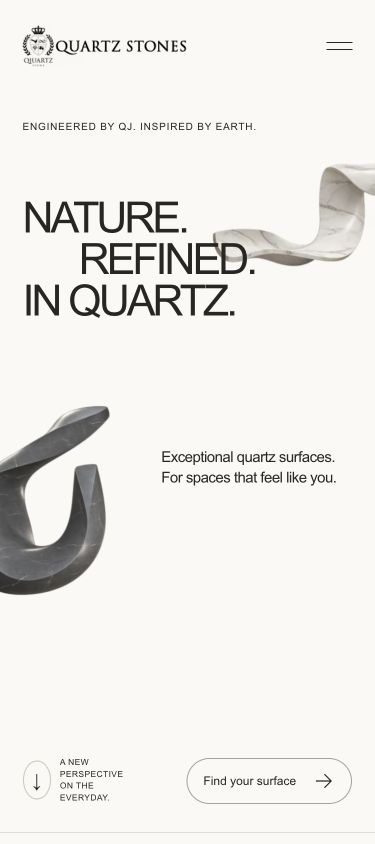
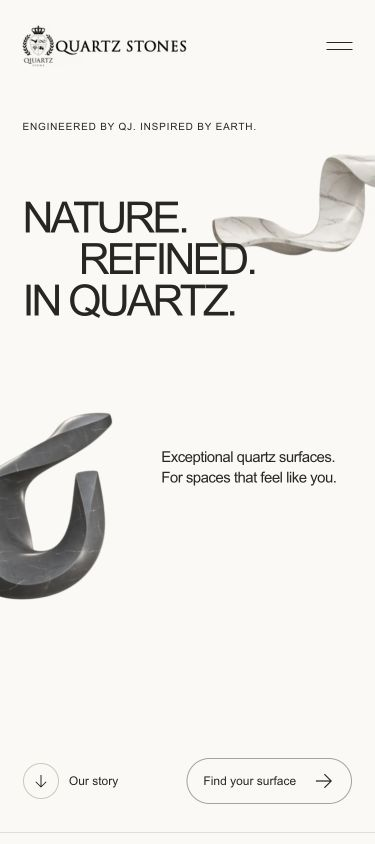
Simplify mobile hero scroll cue

diff --git a/src/app/page.tsx b/src/app/page.tsx
@@ -16,7 +16,15 @@ export default function Home() {
         <h1 id="hero-title" className="hero-title"><span>NATURE.</span><span>REFINED.</span><span>IN QUARTZ.</span></h1>
         <div className="hero-sculpture hero-sculpture-right"><Image src="/images/quartz-sculpture.webp" alt="An expressive ribbon sculpture in finely veined white quartz" fill priority sizes="(max-width: 900px) 65vw, 42vw" /></div>
         <div className="hero-sculpture hero-sculpture-left" aria-hidden="true"><Image src="/images/hero-dark.webp" alt="" fill priority sizes="(max-width: 900px) 46vw, 30vw" /></div>
-        <p className="hero-support-copy">Exceptional quartz surfaces.<br />For spaces that feel like you.</p><div className="hero-bottom"><a href="#about" className="scroll-cue"><span className="scroll-arrow">↓</span><span>A NEW PERSPECTIVE<br />ON THE EVERYDAY.</span></a><div className="hero-intro"><PillLink href="#collections">Find your surface</PillLink></div><div className="hero-index"><span>01 — 04</span><span className="hero-index-line" /><span>THE QJ EDIT</span></div></div>
+        <p className="hero-support-copy">Exceptional quartz surfaces.<br />For spaces that feel like you.</p>
+        <div className="hero-bottom">
+          <a href="#about" className="scroll-cue">
+            <span className="scroll-arrow" aria-hidden="true"><Arrow /></span>
+            <span className="scroll-cue-label"><span className="scroll-cue-desktop-label">A NEW PERSPECTIVE<br />ON THE EVERYDAY.</span><span className="scroll-cue-mobile-label">Our story</span></span>
+          </a>
+          <div className="hero-intro"><PillLink href="#collections">Find your surface</PillLink></div>
+          <div className="hero-index"><span>01 — 04</span><span className="hero-index-line" /><span>THE QJ EDIT</span></div>
+        </div>
       </section>
       <section id="about" className="about section-shell">
         <div className="section-heading"><SectionLabel number="01">The QJ story</SectionLabel><div><h2 className="about-statement">NATURAL CHARACTER.<br />EXTRAORDINARY<br /><span className="clay">POSSIBILITIES.</span></h2><div className="about-copy"><span className="eyebrow">ARTISTRY MEETS TECHNOLOGY.</span><div><p>Born from a partnership between Queens Ceramic Inc. in Taiwan and Jaysons Holdings (Pvt) Ltd in Sri Lanka, QJ brings material expertise and design ambition together.</p><p>From sourcing quartz to producing, polishing and installing surfaces, we follow the material’s journey. So your vision can take shape.</p><PillLink href="https://qjquartzstone.com/about-us-quartz-stones">Get to know QJ</PillLink></div></div></div></div>

diff --git a/src/app/globals.css b/src/app/globals.css
@@ -131,13 +131,18 @@
 
 /* The supporting copy sits beside the second sculpture; actions keep their own row. */
 .hero-support-copy { position: absolute; z-index: 4; left: 47.4%; bottom: 111px; font-size: 19px; line-height: 1.17; letter-spacing: -.04em; }
+.scroll-cue-mobile-label { display: none; }
+.scroll-arrow .arrow { width: 18px; height: 18px; transform: rotate(90deg); }
 @media (max-width: 900px) {
   .hero-support-copy { top: max(355px, calc(33.12vw + 125px)); bottom: auto; left: 43%; right: 6%; font-size: clamp(12px, 4vw, 18px); line-height: 1.35; letter-spacing: -.035em; }
   .hero-bottom { grid-template-columns: 2fr 3fr; gap: 12px; }
   .hero-intro { min-width: 0; display: flex; justify-content: flex-end; }
   .hero-intro .pill-link { padding-inline: 16px; gap: 16px; font-size: 12px; flex-shrink: 0; }
-  .scroll-cue { gap: 9px; }
-  .scroll-cue > span:last-child { font-size: 8.5px; max-width: 70px; line-height: 1.4; }
+  .scroll-cue { gap: 10px; min-height: 46px; letter-spacing: 0; }
+  .scroll-cue > span:last-child { font-size: 12px; max-width: none; line-height: 1.4; white-space: nowrap; }
+  .scroll-arrow { width: 36px; height: 36px; flex-shrink: 0; border-radius: 50%; }
+  .scroll-cue-desktop-label { display: none; }
+  .scroll-cue-mobile-label { display: inline; }
 }
 @media (max-width: 900px) and (max-height: 700px) {
   .hero-support-copy { top: max(300px, calc(33.12vw + 107px)); }

diff --git a/docs/mobile-verification.md b/docs/mobile-verification.md
@@ -10,6 +10,7 @@ Tested CSS viewport widths of 320, 375, 390, 430, 768, 900 and 1024 pixels, plus
 - Footer spans the viewport at every tested width; ARC AI credit remains visible.
 - Phone and portrait-tablet layouts through 900px use 16px main paragraph copy and a 240svh reversible scroll sequence. Reduced-motion layouts retain the static slab/interior composition.
 - Hero supporting copy sits beside the dark sculpture and clears the heading at every tested width. The collection CTA is right-aligned with a separate space for the scroll cue.
+- Mobile scroll cue uses a single-line “Our story” label and a 36px circular arrow, inside a 46px touch target. Verified at 320px and 375px without wrapping or collision with the collection CTA. Desktop retains the original two-line tagline.
 - Short landscape screens place story art and captions side by side, with a darker overlay behind the final caption.
 - Main mobile controls have 44px or larger touch targets; finish selectors are 48px tall.
 - The slab slider remains 44px tall at desktop/tablet widths as well.
